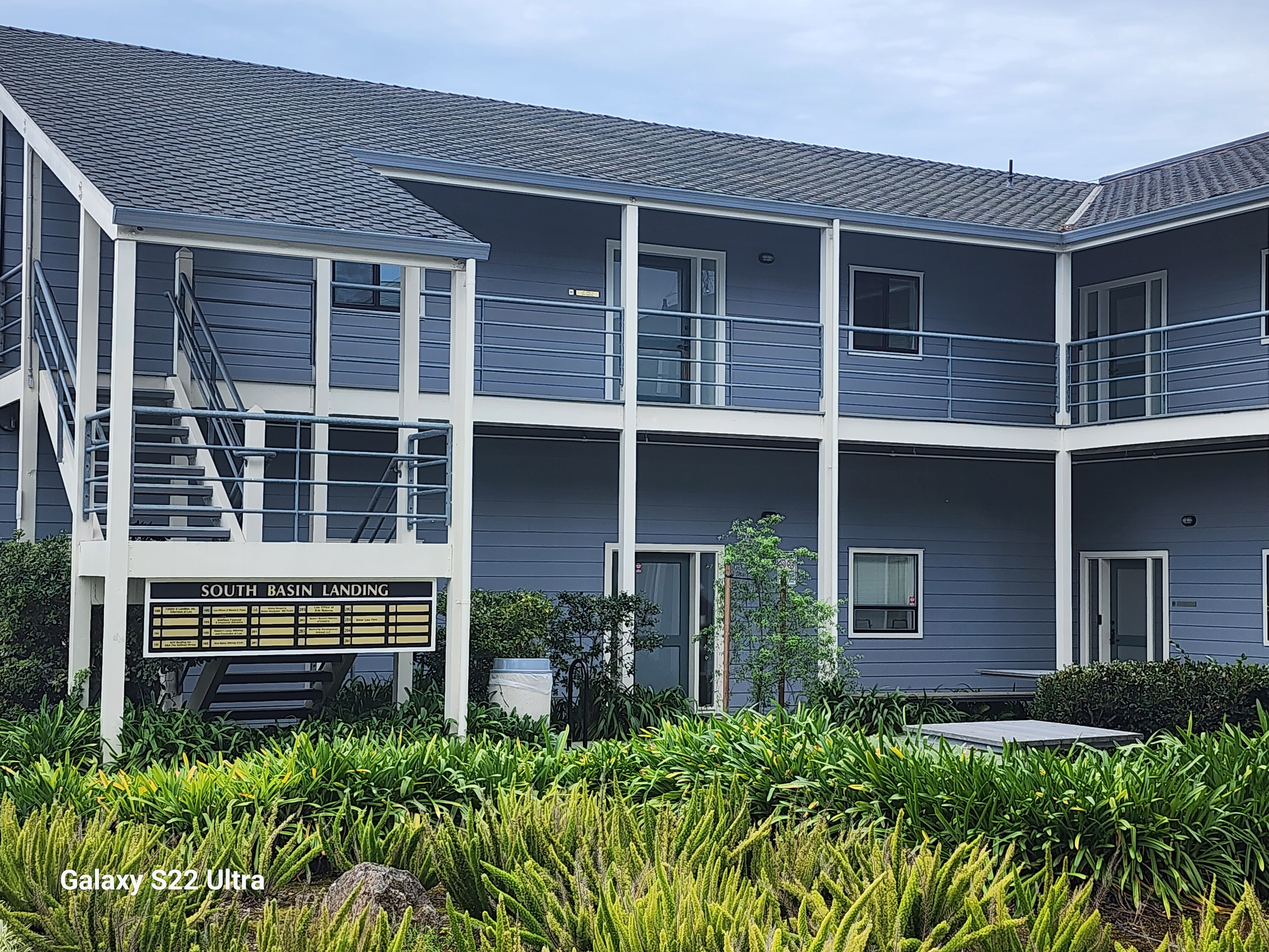
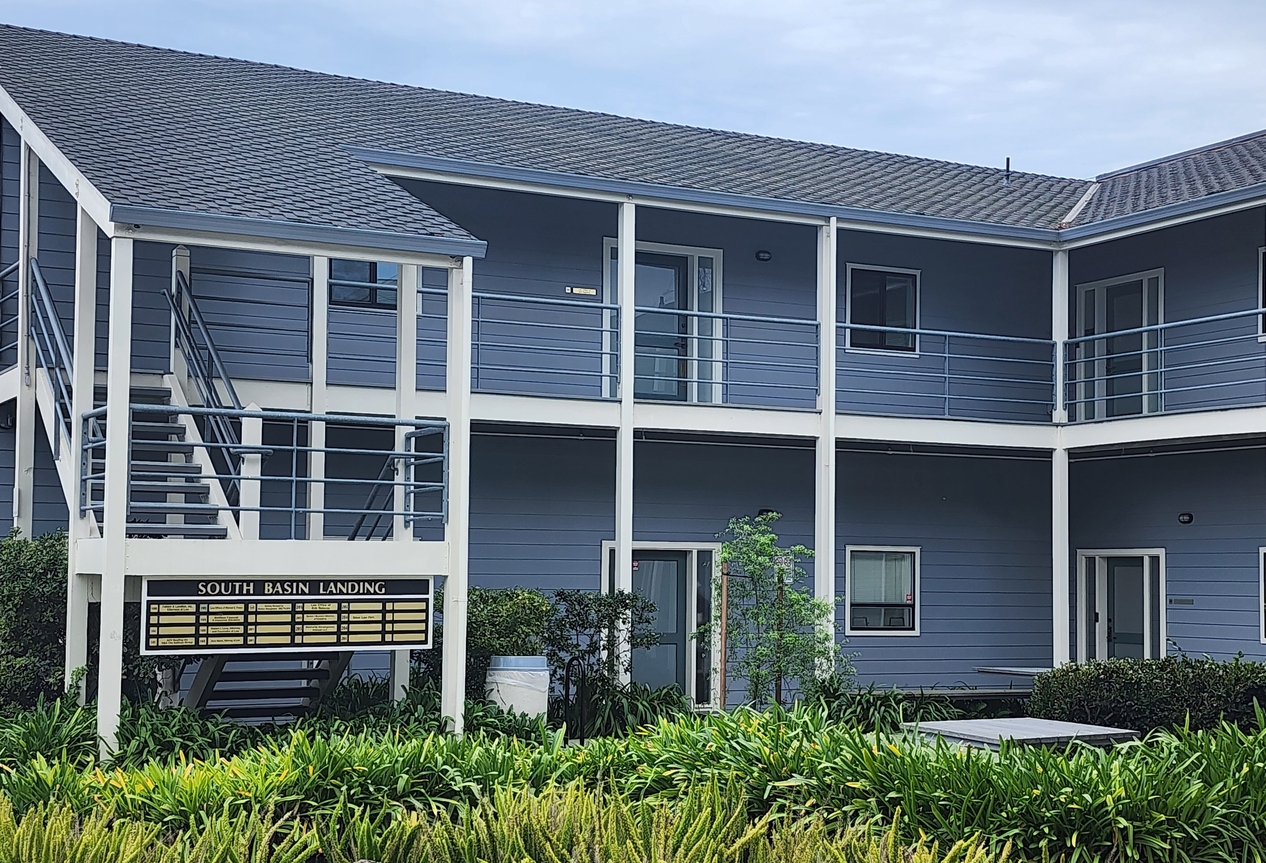
images changes adding new personal and adding new site Palm Desert

diff --git a/assets/css/home.css b/assets/css/home.css
@@ -563,7 +563,7 @@ footer p {
 }
 
 .office-pd {
-    background: #c0392b url('https://images.unsplash.com/photo-1480714378408-67cf0d13bc1b?ixlib=rb-4.0.3&auto=format&fit=crop&w=600&q=60') center/cover no-repeat;
+    background: #c0392b url('../img/PalmDesert.jpg') center/cover no-repeat;
 }
 
 .office-riv {

diff --git a/page-attorneys.php b/page-attorneys.php
@@ -63,10 +63,10 @@ get_header();
             </div>
 
             <div class="attorney-card">
-                <img src="https://cdn.pixabay.com/photo/2015/10/05/22/37/blank-profile-picture-973460_960_720.png" alt="David Yeremian">
+                <img src="/wp-content/themes/nehoray-law/assets/img/LorenaGarcia.png" alt="Lorena Garcia">
                 <div class="attorney-info">
-                    <span class="attorney-role">Comming Soon</span>
-                    <h4 class="attorney-name">Comming<br>Soon</h4>
+                    <span class="attorney-role">Hearing representative</span>
+                    <h4 class="attorney-name">Lorena<br>Garcia</h4>
                 </div>
             </div>
 
